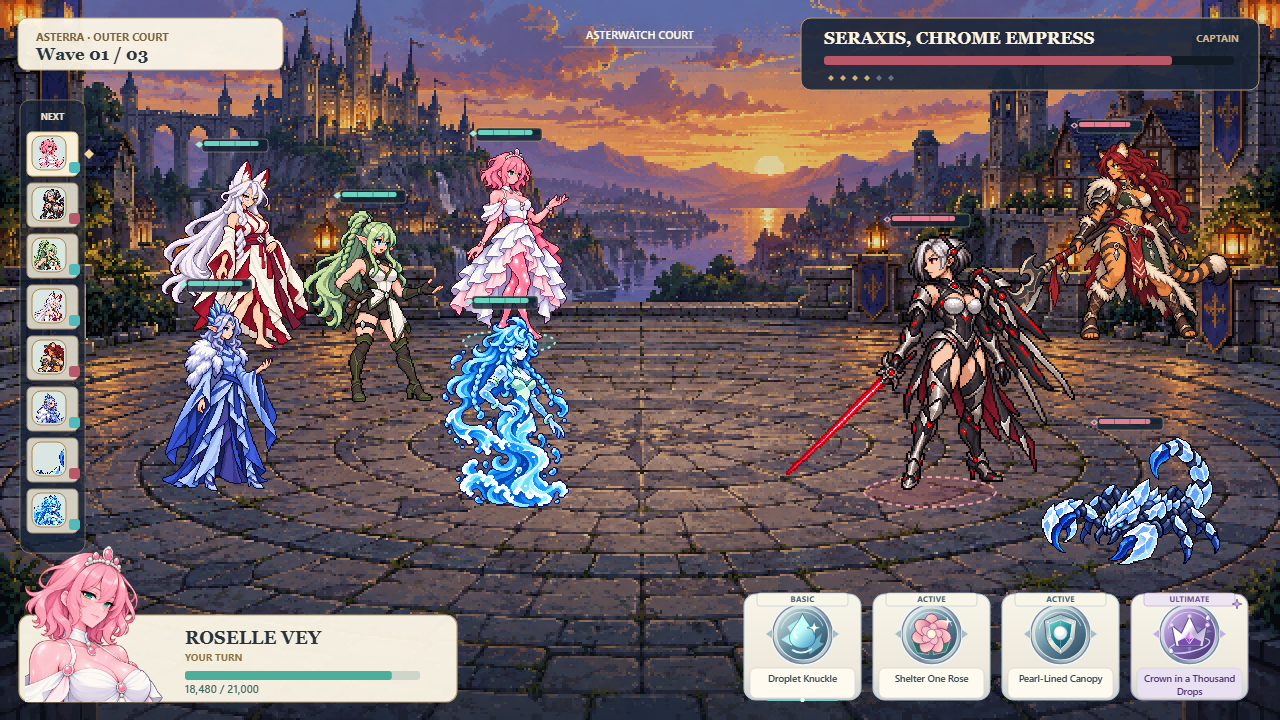
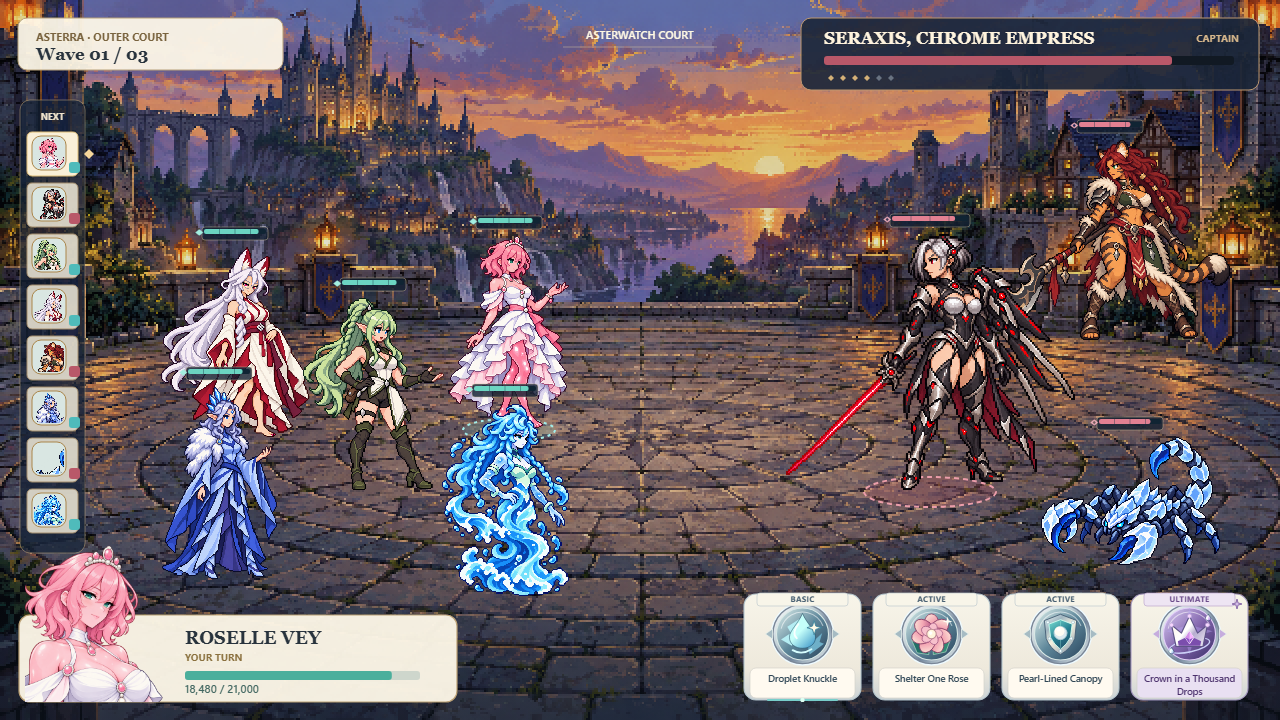
Publish current ProjectG character and kit review

Changed region(s): [[0.125, 0.1528, 0.4688, 0.825]]

diff --git a/combat.html b/combat.html
@@ -3,12 +3,12 @@
 
 .layouts{grid-template-columns:repeat(4,minmax(0,1fr))}.skill-style-picker{margin:0 0 18px;padding:13px 16px;border:1px solid var(--line);border-radius:11px;background:var(--card)}.style-label{font-size:12px;color:var(--muted);font-weight:650}.skill-style-options{display:flex;flex-wrap:wrap;gap:7px;margin-top:8px}.skill-style-options button{min-height:40px;border:1px solid var(--line);border-radius:8px;padding:8px 13px;background:#fffdf8;color:var(--ink)}.skill-style-options button[aria-pressed=true]{background:#e4eeec;border-color:#638d89;box-shadow:inset 0 0 0 1px #638d89}.skill-style-picker p{margin:8px 0 0;font-size:12px;color:var(--muted)}@media(max-width:1000px){.layouts{grid-template-columns:repeat(2,minmax(0,1fr))}}@media(max-width:700px){.layouts{grid-template-columns:1fr}.skill-style-options button{flex:1 1 130px}}
 </style></head><body><main>
-<header><p class="eyebrow">ProjectG · Combat composition review</p><h1>A battlefield with room to breathe.</h1><p class="intro">Your marked formation, C’s boss bar, and B’s portrait panel and wave counter. Switch the skill controls below to compare three new button-and-icon directions.</p><nav class="links" aria-label="Review pages"><a href="portraits.html">Illustrated portraits</a><a href="review.html">Character designs</a><a href="enemies.html">Enemy designs</a><a href="kits.html">Kit workshop</a><a href="roselle.html">Roselle draft</a><a href="abilities.html">Ability catalogue</a></nav><p class="notice">D combines your requested positions and interface choices. A, B and C remain available for comparison. The new skill controls and illustrated portraits are previews for your review.</p></header>
-<section class="portrait-picker" aria-label="Illustrated hero portrait preview"><label class="portrait-field"><span>Hero portrait · 40 choices</span><select id="portrait-hero"><optgroup label="Shown in these formations"><option value="isavelle-frostmere">Isavelle Frostmere</option><option value="liora-fernveil">Liora Fernveil</option><option value="nerielle-wavecrest">Nerielle Wavecrest</option><option value="roselle-vey" selected>Roselle Vey</option><option value="soryn-veilglass">Soryn Veilglass</option></optgroup><optgroup label="Other heroes · portrait panel only"><option value="adela">Adela Karst</option><option value="astra">Astra Vale</option><option value="aveline">Aveline Rusk</option><option value="brann">Brann Oath</option><option value="caelia">Caelia Aurix</option><option value="cerys">Cerys Ashwake</option><option value="dax">Dax Meridian</option><option value="elowyn-rosemere">Elowyn Rosemere</option><option value="iori">Iori Finch</option><option value="jianne">Jianne Reed</option><option value="kael">Kael Voss</option><option value="luna">Luna Myr</option><option value="maelin">Maelin Soreth</option><option value="maelis">Maelis Vireo</option><option value="mika">Mika Sable</option><option value="miravelle-vexwing">Miravelle Vexwing</option><option value="nemea">Nemea Veil</option><option value="nerisse">Nerisse Veldt</option><option value="nyssara-silksong">Nyssara Silksong</option><option value="nyx">Nyx Ardent</option><option value="orivelle-starveil">Orivelle Starveil</option><option value="rhea">Rhea Coil</option><option value="selene">Selene Ward</option><option value="seressa-valemire">Seressa Valemire</option><option value="sevrin">Sevrin Knox</option><option value="sivra">Sivra Halden</option><option value="soryn">Soryn Caldris</option><option value="tamsin">Tamsin Quill</option><option value="thessa">Thessa Cairn</option><option value="valdra-rosethorn">Valdra Rosethorn</option><option value="veloura">Veloura Serein</option><option value="veyra">Veyra Dusk</option><option value="veyra-wick">Veyra Wick</option><option value="yselle">Yselle Rimeward</option><option value="zahra">Zahra Oseth</option></optgroup></select></label><p class="portrait-help"><span id="portrait-status" role="status">Choose a hero or tap one of the five hero sprites.</span><br><a href="portraits.html">Inspect all 40 illustrated portraits →</a></p></section><section class="layouts" aria-label="Choose a combat layout"><button class="layout" type="button" data-layout="d" aria-pressed="true" disabled><strong>D · Your combined layout</strong><span>Your marked five-hero formation with C’s boss bar and B’s compact portrait/HP panel and wave counter.</span></button><button class="layout" type="button" data-layout="a" aria-pressed="false" disabled><strong>A · Opposing Wedges</strong><span>Five heroes left and three enemies right in balanced staggered depth; compact floating HP bars, open center, ivory active-unit panel lower left and four skills at the lower right.</span></button><button class="layout" type="button" data-layout="b" aria-pressed="false" disabled><strong>B · Deep Diamond</strong><span>Five heroes in a deeper diamond/pentagon cluster; enemies in a counter triangle. Slender ivory/gold edge UI and left initiative rail leave a larger arena.</span></button><button class="layout" type="button" data-layout="c" aria-pressed="false" disabled><strong>C · Boss Focus</strong><span>Five allies in a compact advancing fan against Seraxis as the main captain and two flanking enemies. Captain enlarged on a documented larger logical grid; clear target highlight and restrained UI.</span></button></section><section class="skill-style-picker" aria-label="Compare skill button designs"><span class="style-label">Skill controls</span><div class="skill-style-options"><button type="button" data-skill-style="crests" aria-pressed="true">01 · Crest seals</button><button type="button" data-skill-style="glass" aria-pressed="false">02 · Crystal glass</button><button type="button" data-skill-style="ribbons" aria-pressed="false">03 · Battle ribbons</button><button type="button" data-skill-style="original" aria-pressed="false">Original</button></div><p id="skill-style-description" aria-live="polite"></p></section><div class="toolbar"><div class="zoom" aria-label="Canvas inspection scale"><span class="zoom-label">Inspect</span><button type="button" data-zoom="fit" aria-pressed="true">Fit</button><button type="button" data-zoom="1" aria-pressed="false">1× pixels</button><button type="button" data-zoom="2" aria-pressed="false">2× pixels</button></div><button type="button" class="download" id="download-canvas" disabled>Download this canvas · PNG</button></div>
[1 lines of base64/hex data omitted]
+<header><p class="eyebrow">ProjectG · Combat composition review</p><h1>A battlefield with room to breathe.</h1><p class="intro">Your formation aligned with the boss, C’s boss bar, and B’s portrait panel and wave counter. Switch the skill controls below to compare three new button-and-icon directions.</p><nav class="links" aria-label="Review pages"><a href="portraits.html">Illustrated portraits</a><a href="review.html">Character designs</a><a href="enemies.html">Enemy designs</a><a href="kits.html">Kit workshop</a><a href="roselle.html">Roselle draft</a><a href="abilities.html">Ability catalogue</a></nav><p class="notice">D combines your requested positions and interface choices. A, B and C remain available for comparison. The new skill controls and illustrated portraits are previews for your review.</p></header>
+<section class="portrait-picker" aria-label="Illustrated hero portrait preview"><label class="portrait-field"><span>Hero portrait · 40 choices</span><select id="portrait-hero"><optgroup label="Shown in these formations"><option value="isavelle-frostmere">Isavelle Frostmere</option><option value="liora-fernveil">Liora Fernveil</option><option value="nerielle-wavecrest">Nerielle Wavecrest</option><option value="roselle-vey" selected>Roselle Vey</option><option value="soryn-veilglass">Soryn Veilglass</option></optgroup><optgroup label="Other heroes · portrait panel only"><option value="adela">Adela Karst</option><option value="astra">Astra Vale</option><option value="aveline">Aveline Rusk</option><option value="brann">Brann Oath</option><option value="caelia">Caelia Aurix</option><option value="cerys">Cerys Ashwake</option><option value="dax">Dax Meridian</option><option value="elowyn-rosemere">Elowyn Rosemere</option><option value="iori">Iori Finch</option><option value="jianne">Jianne Reed</option><option value="kael">Kael Voss</option><option value="luna">Luna Myr</option><option value="maelin">Maelin Soreth</option><option value="maelis">Maelis Vireo</option><option value="mika">Mika Sable</option><option value="miravelle-vexwing">Miravelle Vexwing</option><option value="nemea">Nemea Veil</option><option value="nerisse">Nerisse Veldt</option><option value="nyssara-silksong">Nyssara Silksong</option><option value="nyx">Nyx Ardent</option><option value="orivelle-starveil">Orivelle Starveil</option><option value="rhea">Rhea Coil</option><option value="selene">Selene Ward</option><option value="seressa-valemire">Seressa Valemire</option><option value="sevrin">Sevrin Knox</option><option value="sivra">Sivra Halden</option><option value="soryn">Soryn Caldris</option><option value="tamsin">Tamsin Quill</option><option value="thessa">Thessa Cairn</option><option value="valdra-rosethorn">Valdra Rosethorn</option><option value="veloura">Veloura Serein</option><option value="veyra">Veyra Dusk</option><option value="veyra-wick">Veyra Wick</option><option value="yselle">Yselle Rimeward</option><option value="zahra">Zahra Oseth</option></optgroup></select></label><p class="portrait-help"><span id="portrait-status" role="status">Choose a hero or tap one of the five hero sprites.</span><br><a href="portraits.html">Inspect all 40 illustrated portraits →</a></p></section><section class="layouts" aria-label="Choose a combat layout"><button class="layout" type="button" data-layout="d" aria-pressed="true" disabled><strong>D · Your combined layout</strong><span>Your five-hero formation aligned with the boss, with C’s boss bar and B’s compact portrait/HP panel and wave counter.</span></button><button class="layout" type="button" data-layout="a" aria-pressed="false" disabled><strong>A · Opposing Wedges</strong><span>Five heroes left and three enemies right in balanced staggered depth; compact floating HP bars, open center, ivory active-unit panel lower left and four skills at the lower right.</span></button><button class="layout" type="button" data-layout="b" aria-pressed="false" disabled><strong>B · Deep Diamond</strong><span>Five heroes in a deeper diamond/pentagon cluster; enemies in a counter triangle. Slender ivory/gold edge UI and left initiative rail leave a larger arena.</span></button><button class="layout" type="button" data-layout="c" aria-pressed="false" disabled><strong>C · Boss Focus</strong><span>Five allies in a compact advancing fan against Seraxis as the main captain and two flanking enemies. Captain enlarged on a documented larger logical grid; clear target highlight and restrained UI.</span></button></section><section class="skill-style-picker" aria-label="Compare skill button designs"><span class="style-label">Skill controls</span><div class="skill-style-options"><button type="button" data-skill-style="crests" aria-pressed="true">01 · Crest seals</button><button type="button" data-skill-style="glass" aria-pressed="false">02 · Crystal glass</button><button type="button" data-skill-style="ribbons" aria-pressed="false">03 · Battle ribbons</button><button type="button" data-skill-style="original" aria-pressed="false">Original</button></div><p id="skill-style-description" aria-live="polite"></p></section><div class="toolbar"><div class="zoom" aria-label="Canvas inspection scale"><span class="zoom-label">Inspect</span><button type="button" data-zoom="fit" aria-pressed="true">Fit</button><button type="button" data-zoom="1" aria-pressed="false">1× pixels</button><button type="button" data-zoom="2" aria-pressed="false">2× pixels</button></div><button type="button" class="download" id="download-canvas" disabled>Download this canvas · PNG</button></div>
[1 lines of base64/hex data omitted]
 <section class="grid-note"><h2>Inspect the character pixel scale.</h2><p>Generated source images are larger originals. This canvas crops each visible subject, samples it onto an intermediate grid and displays that grid at <strong>1× with nearest-neighbor rendering</strong>. Each character grid is twice as tall and twice as wide as the first pass, with the same on-stage height. The originals remain unchanged high-resolution images, rather than native 192px source art.</p><p>Heroes: 192px tall → 192px on stage. Seraxis: 224px → 224px (Boss Focus and combined layout: 256px → 256px). Velkara: 200px → 200px. Scorpion: 128px → 128px. The background is sampled to 640 × 360, then displayed at 2×. UI text is drawn at the 1280 × 720 screen resolution.</p><div class="grid-scroll"><table><thead><tr><th>Character</th><th>Intermediate grid</th><th>On the 1280 × 720 canvas</th></tr></thead><tbody id="grid-rows"></tbody></table></div></section>
-<section class="exports"><h2>Compare the actual canvas exports.</h2><p class="intro">These PNGs are exported from the same rendered canvases above.</p><div class="export-grid"><a class="export" href="combat-draft-assets/combat-draft-d.png?detail=2&amp;v=2aecd4dcfbcf" download><img src="combat-draft-assets/combat-draft-d.png?detail=2&amp;v=2aecd4dcfbcf" alt="Actual canvas export: Your combined layout" loading="lazy"><span>D · Your combined layout · PNG</span></a><a class="export" href="combat-draft-assets/combat-draft-a.png?detail=2&amp;v=1cf7e6ca9b21" download><img src="combat-draft-assets/combat-draft-a.png?detail=2&amp;v=1cf7e6ca9b21" alt="Actual canvas export: Opposing Wedges" loading="lazy"><span>A · Opposing Wedges · PNG</span></a><a class="export" href="combat-draft-assets/combat-draft-b.png?detail=2&amp;v=9ca8516c410e" download><img src="combat-draft-assets/combat-draft-b.png?detail=2&amp;v=9ca8516c410e" alt="Actual canvas export: Deep Diamond" loading="lazy"><span>B · Deep Diamond · PNG</span></a><a class="export" href="combat-draft-assets/combat-draft-c.png?detail=2&amp;v=ac0486500b93" download><img src="combat-draft-assets/combat-draft-c.png?detail=2&amp;v=ac0486500b93" alt="Actual canvas export: Boss Focus" loading="lazy"><span>C · Boss Focus · PNG</span></a></div></section><footer>Your combined layout is the default. Compare three new skill-control designs or the original treatment. Character art and gameplay values remain review previews.</footer>
-<script id="combat-data" type="application/json">{"background": {"sprite": "combat-draft-assets/asterwatch-court-pixel-v1.png"}, "units": [{"id": "roselle-vey", "name": "Roselle Vey", "team": "hero", "logicalHeight": 192, "displayScale": 1, "facing": "right", "sprite": "combat-draft-assets/draft-roselle-vey-coarse-v1.png"}, {"id": "liora-fernveil", "name": "Liora Fernveil", "team": "hero", "logicalHeight": 192, "displayScale": 1, "facing": "right", "sprite": "combat-draft-assets/draft-liora-fernveil-coarse-v1.png"}, {"id": "soryn-veilglass", "name": "Soryn Veilglass", "team": "hero", "logicalHeight": 192, "displayScale": 1, "facing": "right", "sprite": "combat-draft-assets/draft-soryn-veilglass-coarse-v1.png"}, {"id": "isavelle-frostmere", "name": "Isavelle Frostmere", "team": "hero", "logicalHeight": 192, "displayScale": 1, "facing": "right", "sprite": "combat-draft-assets/draft-isavelle-frostmere-coarse-v1.png"}, {"id": "nerielle-wavecrest", "name": "Nerielle Wavecrest", "team": "hero", "logicalHeight": 192, "displayScale": 1, "facing": "right", "sprite": "combat-draft-assets/draft-nerielle-wavecrest-coarse-v1.png"}, {"id": "seraxis-chrome-empress", "name": "Seraxis, Chrome Empress", "team": "enemy", "logicalHeight": 224, "displayScale": 1, "facing": "left", "sprite": "combat-draft-assets/draft-seraxis-chrome-empress-coarse-v1.png"}, {"id": "velkara-moonfang", "name": "Velkara Moonfang", "team": "enemy", "logicalHeight": 200, "displayScale": 1, "facing": "left", "sprite": "combat-draft-assets/draft-velkara-moonfang-coarse-v1.png"}, {"id": "frostglass-scorpion", "name": "Frostglass Scorpion", "team": "enemy", "logicalHeight": 128, "displayScale": 1, "facing": "left", "sprite": "combat-draft-assets/draft-frostglass-scorpion-coarse-v1.png"}], "layouts": [{"id": "d", "name": "Your combined layout", "description": "Your marked five-hero formation with C’s boss bar and B’s compact portrait/HP panel and wave counter.", "label": "D", "positions": [{"id": "soryn-veilglass", "x": 235, "y": 351}, {"id": "liora-fernveil", "x": 373, "y": 402}, {"id": "roselle-vey", "x": 509, "y": 340}, {"id": "isavelle-frostmere", "x": 219, "y": 491}, {"id": "nerielle-wavecrest", "x": 505, "y": 508}, {"id": "seraxis-chrome-empress", "x": 930, "y": 490, "logicalHeight": 256}, {"id": "velkara-moonfang", "x": 1110, "y": 340}, {"id": "frostglass-scorpion", "x": 1130, "y": 565}]}, {"id": "a", "name": "Opposing Wedges", "description": "Five heroes left and three enemies right in balanced staggered depth; compact floating HP bars, open center, ivory active-unit panel lower left and four skills at the lower right.", "label": "A", "positions": [{"id": "soryn-veilglass", "x": 210, "y": 352}, {"id": "isavelle-frostmere", "x": 365, "y": 340}, {"id": "liora-fernveil", "x": 320, "y": 444}, {"id": "nerielle-wavecrest", "x": 220, "y": 548}, {"id": "roselle-vey", "x": 490, "y": 515}, {"id": "seraxis-chrome-empress", "x": 850, "y": 463}, {"id": "velkara-moonfang", "x": 1065, "y": 350}, {"id": "frostglass-scorpion", "x": 1100, "y": 550}]}, {"id": "b", "name": "Deep Diamond", "description": "Five heroes in a deeper diamond/pentagon cluster; enemies in a counter triangle. Slender ivory/gold edge UI and left initiative rail leave a larger arena.", "label": "B", "positions": [{"id": "soryn-veilglass", "x": 205, "y": 430}, {"id": "liora-fernveil", "x": 330, "y": 340}, {"id": "isavelle-frostmere", "x": 390, "y": 425}, {"id": "nerielle-wavecrest", "x": 310, "y": 557}, {"id": "roselle-vey", "x": 540, "y": 515}, {"id": "seraxis-chrome-empress", "x": 885, "y": 445}, {"id": "velkara-moonfang", "x": 1090, "y": 340}, {"id": "frostglass-scorpion", "x": 1065, "y": 563}]}, {"id": "c", "name": "Boss Focus", "description": "Five allies in a compact advancing fan against Seraxis as the main captain and two flanking enemies. Captain enlarged on a documented larger logical grid; clear target highlight and restrained UI.", "label": "C", "positions": [{"id": "soryn-veilglass", "x": 210, "y": 340}, {"id": "liora-fernveil", "x": 315, "y": 389}, {"id": "isavelle-frostmere", "x": 215, "y": 510}, {"id": "nerielle-wavecrest", "x": 350, "y": 551}, {"id": "roselle-vey", "x": 515, "y": 485}, {"id": "seraxis-chrome-empress", "x": 930, "y": 490, "logicalHeight": 256}, {"id": "velkara-moonfang", "x": 1110, "y": 340}, {"id": "frostglass-scorpion", "x": 1130, "y": 565}]}], "activeId": "roselle-vey", "skills": ["Droplet Knuckle", "Shelter One Rose", "Pearl-Lined Canopy", "Crown in a Thousand Drops"], "genericSkills": ["Basic", "Active 1", "Active 2", "Ultimate"], "portraits": [{"id": "adela", "name": "Adela Karst", "rosterScope": "existing-runtime-29", "sprite": "portrait-assets/portrait-adela-illustrated-v1.png?v=173a168e91b9", "framing": {"faceCenterX": 632, "eyeLineY": 484, "chinY": 646}}, {"id": "astra", "name": "Astra Vale", "rosterScope": "existing-runtime-29", "sprite": "portrait-assets/portrait-astra-illustrated-v1.png?v=b47803ae1bfd", "framing": {"faceCenterX": 700, "eyeLineY": 415, "chinY": 602}}, {"id": "aveline", "name": "Aveline Rusk", "rosterScope": "existing-runtime-29", "sprite": "portrait-assets/portrait-aveline-illustrated-v1.png?v=50aa2b1b3c1f", "framing": {"faceCenterX": 592, "eyeLineY": 390, "chinY": 580}}, {"id": "brann", "name": "Brann Oath", "rosterScope": "existing-runtime-29", "sprite": "portrait-assets/portrait-brann-illustrated-v1.png?v=3e6e6b3d8987", "framing": {"faceCenterX": 550, "eyeLineY": 354, "chinY": 552}}, {"id": "caelia", "name": "Caelia Aurix", "rosterScope": "existing-runtime-29", "sprite": "portrait-assets/portrait-caelia-illustrated-v1.png?v=536ba8a71e8c", "framing": {"faceCenterX": 582, "eyeLineY": 390, "chinY": 555}}, {"id": "cerys", "name": "Cerys Ashwake", "rosterScope": "existing-runtime-29", "sprite": "portrait-assets/portrait-cerys-illustrated-v1.png?v=215f6f1a46e7", "framing": {"faceCenterX": 711, "eyeLineY": 470, "chinY": 626}}, {"id": "dax", "name": "Dax Meridian", "rosterScope": "existing-runtime-29", "sprite": "portrait-assets/portrait-dax-illustrated-v1.png?v=75f37a36bdd9", "framing": {"faceCenterX": 552, "eyeLineY": 329, "chinY": 518}}, {"id": "elowyn-rosemere", "name": "Elowyn Rosemere", "rosterScope": "accepted-new-identity-11-not-runtime-integrated", "sprite": "portrait-assets/portrait-elowyn-rosemere-illustrated-v1.png?v=03120fe0c9a9", "framing": {"faceCenterX": 730, "eyeLineY": 365, "chinY": 540}}, {"id": "iori", "name": "Iori Finch", "rosterScope": "existing-runtime-29", "sprite": "portrait-assets/portrait-iori-illustrated-v1.png?v=2e2a832c60fc", "framing": {"faceCenterX": 695, "eyeLineY": 400, "chinY": 587}}, {"id": "isavelle-frostmere", "name": "Isavelle Frostmere", "rosterScope": "accepted-new-identity-11-not-runtime-integrated", "sprite": "portrait-assets/portrait-isavelle-frostmere-illustrated-v1.png?v=dd5ea7b40330", "framing": {"faceCenterX": 717, "eyeLineY": 420, "chinY": 587}}, {"id": "jianne", "name": "Jianne Reed", "rosterScope": "existing-runtime-29", "sprite": "portrait-assets/portrait-jianne-illustrated-v1.png?v=bdcbe95bcfc2", "framing": {"faceCenterX": 698, "eyeLineY": 600, "chinY": 730}}, {"id": "kael", "name": "Kael Voss", "rosterScope": "existing-runtime-29", "sprite": "portrait-assets/portrait-kael-illustrated-v1.png?v=fb32fde5eb30", "framing": {"faceCenterX": 587, "eyeLineY": 315, "chinY": 500}}, {"id": "liora-fernveil", "name": "Liora Fernveil", "rosterScope": "accepted-new-identity-11-not-runtime-integrated", "sprite": "portrait-assets/portrait-liora-fernveil-illustrated-v1.png?v=d4ae2aa139e7", "framing": {"faceCenterX": 749, "eyeLineY": 357, "chinY": 505}}, {"id": "luna", "name": "Luna Myr", "rosterScope": "existing-runtime-29", "sprite": "portrait-assets/portrait-luna-illustrated-v1.png?v=96c1fa3e8829", "framing": {"faceCenterX": 745, "eyeLineY": 356, "chinY": 518}}, {"id": "maelin", "name": "Maelin Soreth", "rosterScope": "existing-runtime-29", "sprite": "portrait-assets/portrait-maelin-illustrated-v1.png?v=e38a02bda9a7", "framing": {"faceCenterX": 513, "eyeLineY": 347, "chinY": 521}}, {"id": "maelis", "name": "Maelis Vireo", "rosterScope": "existing-runtime-29", "sprite": "portrait-assets/portrait-maelis-illustrated-v1.png?v=2dc47149e6fc", "framing": {"faceCenterX": 732, "eyeLineY": 548, "chinY": 714}}, {"id": "mika", "name": "Mika Sable", "rosterScope": "existing-runtime-29", "sprite": "portrait-assets/portrait-mika-illustrated-v1.png?v=23f2b5192000", "framing": {"faceCenterX": 820, "eyeLineY": 315, "chinY": 467}}, {"id": "miravelle-vexwing", "name": "Miravelle Vexwing", "rosterScope": "accepted-new-identity-11-not-runtime-integrated", "sprite": "portrait-assets/portrait-miravelle-vexwing-illustrated-v1.png?v=afc39e79c71c", "framing": {"faceCenterX": 926, "eyeLineY": 334, "chinY": 462}}, {"id": "nemea", "name": "Nemea Veil", "rosterScope": "existing-runtime-29", "sprite": "portrait-assets/portrait-nemea-illustrated-v1.png?v=3c37e3de10d9", "framing": {"faceCenterX": 660, "eyeLineY": 345, "chinY": 493}}, {"id": "nerielle-wavecrest", "name": "Nerielle Wavecrest", "rosterScope": "accepted-new-identity-11-not-runtime-integrated", "sprite": "portrait-assets/portrait-nerielle-wavecrest-illustrated-v1.png?v=fb8f02648b58", "framing": {"faceCenterX": 790, "eyeLineY": 390, "chinY": 530}}, {"id": "nerisse", "name": "Nerisse Veldt", "rosterScope": "existing-runtime-29", "sprite": "portrait-assets/portrait-nerisse-illustrated-v2.png?v=5c90b066abf9", "framing": {"faceCenterX": 770, "eyeLineY": 434, "chinY": 576}}, {"id": "nyssara-silksong", "name": "Nyssara Silksong", "rosterScope": "accepted-new-identity-11-not-runtime-integrated", "sprite": "portrait-assets/portrait-nyssara-silksong-illustrated-v1.png?v=c3398f765e37", "framing": {"faceCenterX": 687, "eyeLineY": 326, "chinY": 507}}, {"id": "nyx", "name": "Nyx Ardent", "rosterScope": "existing-runtime-29", "sprite": "portrait-assets/portrait-nyx-illustrated-v1.png?v=9e84d492d189", "framing": {"faceCenterX": 692, "eyeLineY": 374, "chinY": 545}}, {"id": "orivelle-starveil", "name": "Orivelle Starveil", "rosterScope": "accepted-new-identity-11-not-runtime-integrated", "sprite": "portrait-assets/portrait-orivelle-starveil-illustrated-v1.png?v=7f3704d53cc3", "framing": {"faceCenterX": 695, "eyeLineY": 400, "chinY": 563}}, {"id": "rhea", "name": "Rhea Coil", "rosterScope": "existing-runtime-29", "sprite": "portrait-assets/portrait-rhea-illustrated-v1.png?v=8ca9725922a1", "framing": {"faceCenterX": 650, "eyeLineY": 359, "chinY": 542}}, {"id": "roselle-vey", "name": "Roselle Vey", "rosterScope": "accepted-new-identity-11-not-runtime-integrated", "sprite": "portrait-assets/portrait-roselle-vey-illustrated-v1.png?v=8556eec70e10", "framing": {"faceCenterX": 716, "eyeLineY": 366, "chinY": 549}}, {"id": "selene", "name": "Selene Ward", "rosterScope": "existing-runtime-29", "sprite": "portrait-assets/portrait-selene-illustrated-v1.png?v=7347e7d398f2", "framing": {"faceCenterX": 697, "eyeLineY": 345, "chinY": 526}}, {"id": "seressa-valemire", "name": "Seressa Valemire", "rosterScope": "accepted-new-identity-11-not-runtime-integrated", "sprite": "portrait-assets/portrait-seressa-valemire-illustrated-v1.png?v=0eb6b0a2e30d", "framing": {"faceCenterX": 710, "eyeLineY": 415, "chinY": 577}}, {"id": "sevrin", "name": "Sevrin Knox", "rosterScope": "existing-runtime-29", "sprite": "portrait-assets/portrait-sevrin-illustrated-v1.png?v=045b43405b8e", "framing": {"faceCenterX": 521, "eyeLineY": 356, "chinY": 540}}, {"id": "sivra", "name": "Sivra Halden", "rosterScope": "existing-runtime-29", "sprite": "portrait-assets/portrait-sivra-illustrated-v1.png?v=c8300145fb7f", "framing": {"faceCenterX": 541, "eyeLineY": 369, "chinY": 557}}, {"id": "soryn", "name": "Soryn Caldris", "rosterScope": "existing-runtime-29", "sprite": "portrait-assets/portrait-soryn-illustrated-v1.png?v=12d2651b9f23", "framing": {"faceCenterX": 594, "eyeLineY": 494, "chinY": 617}}, {"id": "soryn-veilglass", "name": "Soryn Veilglass", "rosterScope": "accepted-new-identity-11-not-runtime-integrated", "sprite": "portrait-assets/portrait-soryn-veilglass-illustrated-v1.png?v=418653f6718b", "framing": {"faceCenterX": 729, "eyeLineY": 435, "chinY": 566}}, {"id": "tamsin", "name": "Tamsin Quill", "rosterScope": "existing-runtime-29", "sprite": "portrait-assets/portrait-tamsin-illustrated-v1.png?v=49c21376ac94", "framing": {"faceCenterX": 630, "eyeLineY": 405, "chinY": 540}}, {"id": "thessa", "name": "Thessa Cairn", "rosterScope": "existing-runtime-29", "sprite": "portrait-assets/portrait-thessa-illustrated-v1.png?v=2b0b9b254cf9", "framing": {"faceCenterX": 562, "eyeLineY": 543, "chinY": 653}}, {"id": "valdra-rosethorn", "name": "Valdra Rosethorn", "rosterScope": "accepted-new-identity-11-not-runtime-integrated", "sprite": "portrait-assets/portrait-valdra-rosethorn-illustrated-v1.png?v=9319fe02c25e", "framing": {"faceCenterX": 730, "eyeLineY": 323, "chinY": 516}}, {"id": "veloura", "name": "Veloura Serein", "rosterScope": "existing-runtime-29", "sprite": "portrait-assets/portrait-veloura-illustrated-v1.png?v=2fd9376389eb", "framing": {"faceCenterX": 685, "eyeLineY": 354, "chinY": 525}}, {"id": "veyra", "name": "Veyra Dusk", "rosterScope": "existing-runtime-29", "sprite": "portrait-assets/portrait-veyra-illustrated-v1.png?v=0f24c91ec0d8", "framing": {"faceCenterX": 691, "eyeLineY": 429, "chinY": 590}}, {"id": "veyra-wick", "name": "Veyra Wick", "rosterScope": "existing-runtime-29", "sprite": "portrait-assets/portrait-veyra-wick-illustrated-v1.png?v=508b5e050fc1", "framing": {"faceCenterX": 694, "eyeLineY": 567, "chinY": 702}}, {"id": "yselle", "name": "Yselle Rimeward", "rosterScope": "existing-runtime-29", "sprite": "portrait-assets/portrait-yselle-illustrated-v1.png?v=cd87b4710240", "framing": {"faceCenterX": 726, "eyeLineY": 389, "chinY": 559}}, {"id": "zahra", "name": "Zahra Oseth", "rosterScope": "existing-runtime-29", "sprite": "portrait-assets/portrait-zahra-illustrated-v1.png?v=5d21dee244bc", "framing": {"faceCenterX": 715, "eyeLineY": 376, "chinY": 571}}], "portraitFrame": {"width": 146, "height": 190, "eyeLine": 88, "eyeToChin": 28, "faceCenterX": 73}, "defaultLayout": "d", "skillStyles": [{"id": "crests", "name": "01 · Crest seals", "description": "Sculpted medallions, luminous command symbols and a violet ultimate seal."}, {"id": "glass", "name": "02 · Crystal glass", "description": "Faceted glass tiles with bright spell symbols and cool silver edges."}, {"id": "ribbons", "name": "03 · Battle ribbons", "description": "Layered dark command ribbons with bold color insets and an angled silhouette."}, {"id": "original", "name": "Original", "description": "The previous ivory cards and line icons, kept for comparison."}], "defaultSkillStyle": "crests"}</script><script>
+<section class="exports"><h2>Compare the actual canvas exports.</h2><p class="intro">These PNGs are exported from the same rendered canvases above.</p><div class="export-grid"><a class="export" href="combat-draft-assets/combat-draft-d.png?detail=2&amp;v=f6b7c352ed51" download><img src="combat-draft-assets/combat-draft-d.png?detail=2&amp;v=f6b7c352ed51" alt="Actual canvas export: Your combined layout" loading="lazy"><span>D · Your combined layout · PNG</span></a><a class="export" href="combat-draft-assets/combat-draft-a.png?detail=2&amp;v=1cf7e6ca9b21" download><img src="combat-draft-assets/combat-draft-a.png?detail=2&amp;v=1cf7e6ca9b21" alt="Actual canvas export: Opposing Wedges" loading="lazy"><span>A · Opposing Wedges · PNG</span></a><a class="export" href="combat-draft-assets/combat-draft-b.png?detail=2&amp;v=9ca8516c410e" download><img src="combat-draft-assets/combat-draft-b.png?detail=2&amp;v=9ca8516c410e" alt="Actual canvas export: Deep Diamond" loading="lazy"><span>B · Deep Diamond · PNG</span></a><a class="export" href="combat-draft-assets/combat-draft-c.png?detail=2&amp;v=ac0486500b93" download><img src="combat-draft-assets/combat-draft-c.png?detail=2&amp;v=ac0486500b93" alt="Actual canvas export: Boss Focus" loading="lazy"><span>C · Boss Focus · PNG</span></a></div></section><footer>Your combined layout is the default. Compare three new skill-control designs or the original treatment. Character art and gameplay values remain review previews.</footer>
+<script id="combat-data" type="application/json">{"background": {"sprite": "combat-draft-assets/asterwatch-court-pixel-v1.png"}, "units": [{"id": "roselle-vey", "name": "Roselle Vey", "team": "hero", "logicalHeight": 192, "displayScale": 1, "facing": "right", "sprite": "combat-draft-assets/draft-roselle-vey-coarse-v1.png"}, {"id": "liora-fernveil", "name": "Liora Fernveil", "team": "hero", "logicalHeight": 192, "displayScale": 1, "facing": "right", "sprite": "combat-draft-assets/draft-liora-fernveil-coarse-v1.png"}, {"id": "soryn-veilglass", "name": "Soryn Veilglass", "team": "hero", "logicalHeight": 192, "displayScale": 1, "facing": "right", "sprite": "combat-draft-assets/draft-soryn-veilglass-coarse-v1.png"}, {"id": "isavelle-frostmere", "name": "Isavelle Frostmere", "team": "hero", "logicalHeight": 192, "displayScale": 1, "facing": "right", "sprite": "combat-draft-assets/draft-isavelle-frostmere-coarse-v1.png"}, {"id": "nerielle-wavecrest", "name": "Nerielle Wavecrest", "team": "hero", "logicalHeight": 192, "displayScale": 1, "facing": "right", "sprite": "combat-draft-assets/draft-nerielle-wavecrest-coarse-v1.png"}, {"id": "seraxis-chrome-empress", "name": "Seraxis, Chrome Empress", "team": "enemy", "logicalHeight": 224, "displayScale": 1, "facing": "left", "sprite": "combat-draft-assets/draft-seraxis-chrome-empress-coarse-v1.png"}, {"id": "velkara-moonfang", "name": "Velkara Moonfang", "team": "enemy", "logicalHeight": 200, "displayScale": 1, "facing": "left", "sprite": "combat-draft-assets/draft-velkara-moonfang-coarse-v1.png"}, {"id": "frostglass-scorpion", "name": "Frostglass Scorpion", "team": "enemy", "logicalHeight": 128, "displayScale": 1, "facing": "left", "sprite": "combat-draft-assets/draft-frostglass-scorpion-coarse-v1.png"}], "layouts": [{"id": "d", "name": "Your combined layout", "description": "Your five-hero formation aligned with the boss, with C’s boss bar and B’s compact portrait/HP panel and wave counter.", "label": "D", "positions": [{"id": "soryn-veilglass", "x": 235, "y": 439}, {"id": "liora-fernveil", "x": 373, "y": 490}, {"id": "roselle-vey", "x": 509, "y": 428}, {"id": "isavelle-frostmere", "x": 219, "y": 579}, {"id": "nerielle-wavecrest", "x": 505, "y": 596}, {"id": "seraxis-chrome-empress", "x": 930, "y": 490, "logicalHeight": 256}, {"id": "velkara-moonfang", "x": 1110, "y": 340}, {"id": "frostglass-scorpion", "x": 1130, "y": 565}]}, {"id": "a", "name": "Opposing Wedges", "description": "Five heroes left and three enemies right in balanced staggered depth; compact floating HP bars, open center, ivory active-unit panel lower left and four skills at the lower right.", "label": "A", "positions": [{"id": "soryn-veilglass", "x": 210, "y": 352}, {"id": "isavelle-frostmere", "x": 365, "y": 340}, {"id": "liora-fernveil", "x": 320, "y": 444}, {"id": "nerielle-wavecrest", "x": 220, "y": 548}, {"id": "roselle-vey", "x": 490, "y": 515}, {"id": "seraxis-chrome-empress", "x": 850, "y": 463}, {"id": "velkara-moonfang", "x": 1065, "y": 350}, {"id": "frostglass-scorpion", "x": 1100, "y": 550}]}, {"id": "b", "name": "Deep Diamond", "description": "Five heroes in a deeper diamond/pentagon cluster; enemies in a counter triangle. Slender ivory/gold edge UI and left initiative rail leave a larger arena.", "label": "B", "positions": [{"id": "soryn-veilglass", "x": 205, "y": 430}, {"id": "liora-fernveil", "x": 330, "y": 340}, {"id": "isavelle-frostmere", "x": 390, "y": 425}, {"id": "nerielle-wavecrest", "x": 310, "y": 557}, {"id": "roselle-vey", "x": 540, "y": 515}, {"id": "seraxis-chrome-empress", "x": 885, "y": 445}, {"id": "velkara-moonfang", "x": 1090, "y": 340}, {"id": "frostglass-scorpion", "x": 1065, "y": 563}]}, {"id": "c", "name": "Boss Focus", "description": "Five allies in a compact advancing fan against Seraxis as the main captain and two flanking enemies. Captain enlarged on a documented larger logical grid; clear target highlight and restrained UI.", "label": "C", "positions": [{"id": "soryn-veilglass", "x": 210, "y": 340}, {"id": "liora-fernveil", "x": 315, "y": 389}, {"id": "isavelle-frostmere", "x": 215, "y": 510}, {"id": "nerielle-wavecrest", "x": 350, "y": 551}, {"id": "roselle-vey", "x": 515, "y": 485}, {"id": "seraxis-chrome-empress", "x": 930, "y": 490, "logicalHeight": 256}, {"id": "velkara-moonfang", "x": 1110, "y": 340}, {"id": "frostglass-scorpion", "x": 1130, "y": 565}]}], "activeId": "roselle-vey", "skills": ["Droplet Knuckle", "Shelter One Rose", "Pearl-Lined Canopy", "Crown in a Thousand Drops"], "genericSkills": ["Basic", "Active 1", "Active 2", "Ultimate"], "portraits": [{"id": "adela", "name": "Adela Karst", "rosterScope": "existing-runtime-29", "sprite": "portrait-assets/portrait-adela-illustrated-v1.png?v=173a168e91b9", "framing": {"faceCenterX": 632, "eyeLineY": 484, "chinY": 646}}, {"id": "astra", "name": "Astra Vale", "rosterScope": "existing-runtime-29", "sprite": "portrait-assets/portrait-astra-illustrated-v1.png?v=b47803ae1bfd", "framing": {"faceCenterX": 700, "eyeLineY": 415, "chinY": 602}}, {"id": "aveline", "name": "Aveline Rusk", "rosterScope": "existing-runtime-29", "sprite": "portrait-assets/portrait-aveline-illustrated-v1.png?v=50aa2b1b3c1f", "framing": {"faceCenterX": 592, "eyeLineY": 390, "chinY": 580}}, {"id": "brann", "name": "Brann Oath", "rosterScope": "existing-runtime-29", "sprite": "portrait-assets/portrait-brann-illustrated-v1.png?v=3e6e6b3d8987", "framing": {"faceCenterX": 550, "eyeLineY": 354, "chinY": 552}}, {"id": "caelia", "name": "Caelia Aurix", "rosterScope": "existing-runtime-29", "sprite": "portrait-assets/portrait-caelia-illustrated-v1.png?v=536ba8a71e8c", "framing": {"faceCenterX": 582, "eyeLineY": 390, "chinY": 555}}, {"id": "cerys", "name": "Cerys Ashwake", "rosterScope": "existing-runtime-29", "sprite": "portrait-assets/portrait-cerys-illustrated-v1.png?v=215f6f1a46e7", "framing": {"faceCenterX": 711, "eyeLineY": 470, "chinY": 626}}, {"id": "dax", "name": "Dax Meridian", "rosterScope": "existing-runtime-29", "sprite": "portrait-assets/portrait-dax-illustrated-v1.png?v=75f37a36bdd9", "framing": {"faceCenterX": 552, "eyeLineY": 329, "chinY": 518}}, {"id": "elowyn-rosemere", "name": "Elowyn Rosemere", "rosterScope": "accepted-new-identity-11-not-runtime-integrated", "sprite": "portrait-assets/portrait-elowyn-rosemere-illustrated-v1.png?v=03120fe0c9a9", "framing": {"faceCenterX": 730, "eyeLineY": 365, "chinY": 540}}, {"id": "iori", "name": "Iori Finch", "rosterScope": "existing-runtime-29", "sprite": "portrait-assets/portrait-iori-illustrated-v1.png?v=2e2a832c60fc", "framing": {"faceCenterX": 695, "eyeLineY": 400, "chinY": 587}}, {"id": "isavelle-frostmere", "name": "Isavelle Frostmere", "rosterScope": "accepted-new-identity-11-not-runtime-integrated", "sprite": "portrait-assets/portrait-isavelle-frostmere-illustrated-v1.png?v=dd5ea7b40330", "framing": {"faceCenterX": 717, "eyeLineY": 420, "chinY": 587}}, {"id": "jianne", "name": "Jianne Reed", "rosterScope": "existing-runtime-29", "sprite": "portrait-assets/portrait-jianne-illustrated-v1.png?v=bdcbe95bcfc2", "framing": {"faceCenterX": 698, "eyeLineY": 600, "chinY": 730}}, {"id": "kael", "name": "Kael Voss", "rosterScope": "existing-runtime-29", "sprite": "portrait-assets/portrait-kael-illustrated-v1.png?v=fb32fde5eb30", "framing": {"faceCenterX": 587, "eyeLineY": 315, "chinY": 500}}, {"id": "liora-fernveil", "name": "Liora Fernveil", "rosterScope": "accepted-new-identity-11-not-runtime-integrated", "sprite": "portrait-assets/portrait-liora-fernveil-illustrated-v1.png?v=d4ae2aa139e7", "framing": {"faceCenterX": 749, "eyeLineY": 357, "chinY": 505}}, {"id": "luna", "name": "Luna Myr", "rosterScope": "existing-runtime-29", "sprite": "portrait-assets/portrait-luna-illustrated-v1.png?v=96c1fa3e8829", "framing": {"faceCenterX": 745, "eyeLineY": 356, "chinY": 518}}, {"id": "maelin", "name": "Maelin Soreth", "rosterScope": "existing-runtime-29", "sprite": "portrait-assets/portrait-maelin-illustrated-v1.png?v=e38a02bda9a7", "framing": {"faceCenterX": 513, "eyeLineY": 347, "chinY": 521}}, {"id": "maelis", "name": "Maelis Vireo", "rosterScope": "existing-runtime-29", "sprite": "portrait-assets/portrait-maelis-illustrated-v1.png?v=2dc47149e6fc", "framing": {"faceCenterX": 732, "eyeLineY": 548, "chinY": 714}}, {"id": "mika", "name": "Mika Sable", "rosterScope": "existing-runtime-29", "sprite": "portrait-assets/portrait-mika-illustrated-v1.png?v=23f2b5192000", "framing": {"faceCenterX": 820, "eyeLineY": 315, "chinY": 467}}, {"id": "miravelle-vexwing", "name": "Miravelle Vexwing", "rosterScope": "accepted-new-identity-11-not-runtime-integrated", "sprite": "portrait-assets/portrait-miravelle-vexwing-illustrated-v1.png?v=afc39e79c71c", "framing": {"faceCenterX": 926, "eyeLineY": 334, "chinY": 462}}, {"id": "nemea", "name": "Nemea Veil", "rosterScope": "existing-runtime-29", "sprite": "portrait-assets/portrait-nemea-illustrated-v1.png?v=3c37e3de10d9", "framing": {"faceCenterX": 660, "eyeLineY": 345, "chinY": 493}}, {"id": "nerielle-wavecrest", "name": "Nerielle Wavecrest", "rosterScope": "accepted-new-identity-11-not-runtime-integrated", "sprite": "portrait-assets/portrait-nerielle-wavecrest-illustrated-v1.png?v=fb8f02648b58", "framing": {"faceCenterX": 790, "eyeLineY": 390, "chinY": 530}}, {"id": "nerisse", "name": "Nerisse Veldt", "rosterScope": "existing-runtime-29", "sprite": "portrait-assets/portrait-nerisse-illustrated-v2.png?v=5c90b066abf9", "framing": {"faceCenterX": 770, "eyeLineY": 434, "chinY": 576}}, {"id": "nyssara-silksong", "name": "Nyssara Silksong", "rosterScope": "accepted-new-identity-11-not-runtime-integrated", "sprite": "portrait-assets/portrait-nyssara-silksong-illustrated-v1.png?v=c3398f765e37", "framing": {"faceCenterX": 687, "eyeLineY": 326, "chinY": 507}}, {"id": "nyx", "name": "Nyx Ardent", "rosterScope": "existing-runtime-29", "sprite": "portrait-assets/portrait-nyx-illustrated-v1.png?v=9e84d492d189", "framing": {"faceCenterX": 692, "eyeLineY": 374, "chinY": 545}}, {"id": "orivelle-starveil", "name": "Orivelle Starveil", "rosterScope": "accepted-new-identity-11-not-runtime-integrated", "sprite": "portrait-assets/portrait-orivelle-starveil-illustrated-v1.png?v=7f3704d53cc3", "framing": {"faceCenterX": 695, "eyeLineY": 400, "chinY": 563}}, {"id": "rhea", "name": "Rhea Coil", "rosterScope": "existing-runtime-29", "sprite": "portrait-assets/portrait-rhea-illustrated-v1.png?v=8ca9725922a1", "framing": {"faceCenterX": 650, "eyeLineY": 359, "chinY": 542}}, {"id": "roselle-vey", "name": "Roselle Vey", "rosterScope": "accepted-new-identity-11-not-runtime-integrated", "sprite": "portrait-assets/portrait-roselle-vey-illustrated-v1.png?v=8556eec70e10", "framing": {"faceCenterX": 716, "eyeLineY": 366, "chinY": 549}}, {"id": "selene", "name": "Selene Ward", "rosterScope": "existing-runtime-29", "sprite": "portrait-assets/portrait-selene-illustrated-v1.png?v=7347e7d398f2", "framing": {"faceCenterX": 697, "eyeLineY": 345, "chinY": 526}}, {"id": "seressa-valemire", "name": "Seressa Valemire", "rosterScope": "accepted-new-identity-11-not-runtime-integrated", "sprite": "portrait-assets/portrait-seressa-valemire-illustrated-v1.png?v=0eb6b0a2e30d", "framing": {"faceCenterX": 710, "eyeLineY": 415, "chinY": 577}}, {"id": "sevrin", "name": "Sevrin Knox", "rosterScope": "existing-runtime-29", "sprite": "portrait-assets/portrait-sevrin-illustrated-v1.png?v=045b43405b8e", "framing": {"faceCenterX": 521, "eyeLineY": 356, "chinY": 540}}, {"id": "sivra", "name": "Sivra Halden", "rosterScope": "existing-runtime-29", "sprite": "portrait-assets/portrait-sivra-illustrated-v1.png?v=c8300145fb7f", "framing": {"faceCenterX": 541, "eyeLineY": 369, "chinY": 557}}, {"id": "soryn", "name": "Soryn Caldris", "rosterScope": "existing-runtime-29", "sprite": "portrait-assets/portrait-soryn-illustrated-v1.png?v=12d2651b9f23", "framing": {"faceCenterX": 594, "eyeLineY": 494, "chinY": 617}}, {"id": "soryn-veilglass", "name": "Soryn Veilglass", "rosterScope": "accepted-new-identity-11-not-runtime-integrated", "sprite": "portrait-assets/portrait-soryn-veilglass-illustrated-v1.png?v=418653f6718b", "framing": {"faceCenterX": 729, "eyeLineY": 435, "chinY": 566}}, {"id": "tamsin", "name": "Tamsin Quill", "rosterScope": "existing-runtime-29", "sprite": "portrait-assets/portrait-tamsin-illustrated-v1.png?v=49c21376ac94", "framing": {"faceCenterX": 630, "eyeLineY": 405, "chinY": 540}}, {"id": "thessa", "name": "Thessa Cairn", "rosterScope": "existing-runtime-29", "sprite": "portrait-assets/portrait-thessa-illustrated-v1.png?v=2b0b9b254cf9", "framing": {"faceCenterX": 562, "eyeLineY": 543, "chinY": 653}}, {"id": "valdra-rosethorn", "name": "Valdra Rosethorn", "rosterScope": "accepted-new-identity-11-not-runtime-integrated", "sprite": "portrait-assets/portrait-valdra-rosethorn-illustrated-v1.png?v=9319fe02c25e", "framing": {"faceCenterX": 730, "eyeLineY": 323, "chinY": 516}}, {"id": "veloura", "name": "Veloura Serein", "rosterScope": "existing-runtime-29", "sprite": "portrait-assets/portrait-veloura-illustrated-v1.png?v=2fd9376389eb", "framing": {"faceCenterX": 685, "eyeLineY": 354, "chinY": 525}}, {"id": "veyra", "name": "Veyra Dusk", "rosterScope": "existing-runtime-29", "sprite": "portrait-assets/portrait-veyra-illustrated-v1.png?v=0f24c91ec0d8", "framing": {"faceCenterX": 691, "eyeLineY": 429, "chinY": 590}}, {"id": "veyra-wick", "name": "Veyra Wick", "rosterScope": "existing-runtime-29", "sprite": "portrait-assets/portrait-veyra-wick-illustrated-v1.png?v=508b5e050fc1", "framing": {"faceCenterX": 694, "eyeLineY": 567, "chinY": 702}}, {"id": "yselle", "name": "Yselle Rimeward", "rosterScope": "existing-runtime-29", "sprite": "portrait-assets/portrait-yselle-illustrated-v1.png?v=cd87b4710240", "framing": {"faceCenterX": 726, "eyeLineY": 389, "chinY": 559}}, {"id": "zahra", "name": "Zahra Oseth", "rosterScope": "existing-runtime-29", "sprite": "portrait-assets/portrait-zahra-illustrated-v1.png?v=5d21dee244bc", "framing": {"faceCenterX": 715, "eyeLineY": 376, "chinY": 571}}], "portraitFrame": {"width": 146, "height": 190, "eyeLine": 88, "eyeToChin": 28, "faceCenterX": 73}, "defaultLayout": "d", "skillStyles": [{"id": "crests", "name": "01 · Crest seals", "description": "Sculpted medallions, luminous command symbols and a violet ultimate seal."}, {"id": "glass", "name": "02 · Crystal glass", "description": "Faceted glass tiles with bright spell symbols and cool silver edges."}, {"id": "ribbons", "name": "03 · Battle ribbons", "description": "Layered dark command ribbons with bold color insets and an angled silhouette."}, {"id": "original", "name": "Original", "description": "The previous ivory cards and line icons, kept for comparison."}], "defaultSkillStyle": "crests"}</script><script>
 const data=JSON.parse(document.querySelector('#combat-data').textContent),canvas=document.querySelector('#combat-canvas'),ctx=canvas.getContext('2d'),viewport=document.querySelector('#canvas-viewport'),status=document.querySelector('#render-status'),exportButton=document.querySelector('#download-canvas');
 const images=new Map(),grids=new Map(),bounds=new Map(),portraitImages=new Map(),portraitPending=new Map();const requestedPortrait=new URLSearchParams(location.search).get('portrait');const requestedSkills=new URLSearchParams(location.search).get('skills');let selected=data.defaultLayout,chosenSkillStyle=data.skillStyles.some(style=>style.id===requestedSkills)?requestedSkills:data.defaultSkillStyle,ready=false,chosenPortrait=data.portraits.some(hero=>hero.id===requestedPortrait)?requestedPortrait:data.activeId;
 const ink='#28333d',ivory='#fff9e9',gold='#aa854a',teal='#4fbbbb',enemyColor='#b95869';
